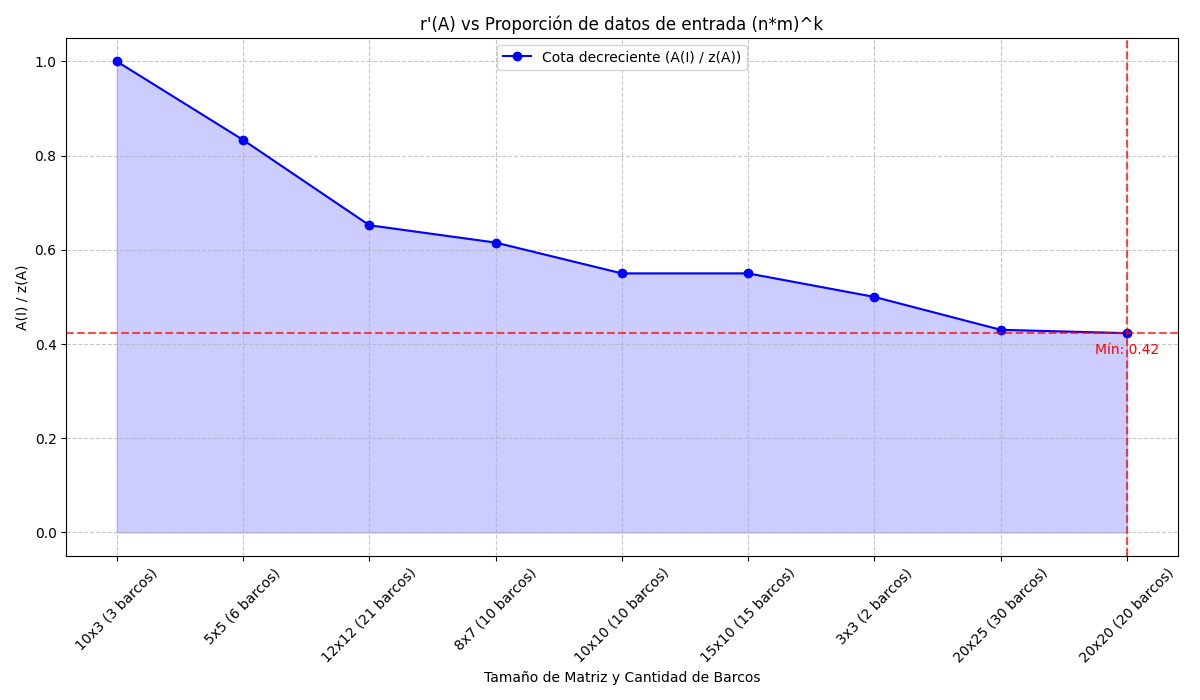
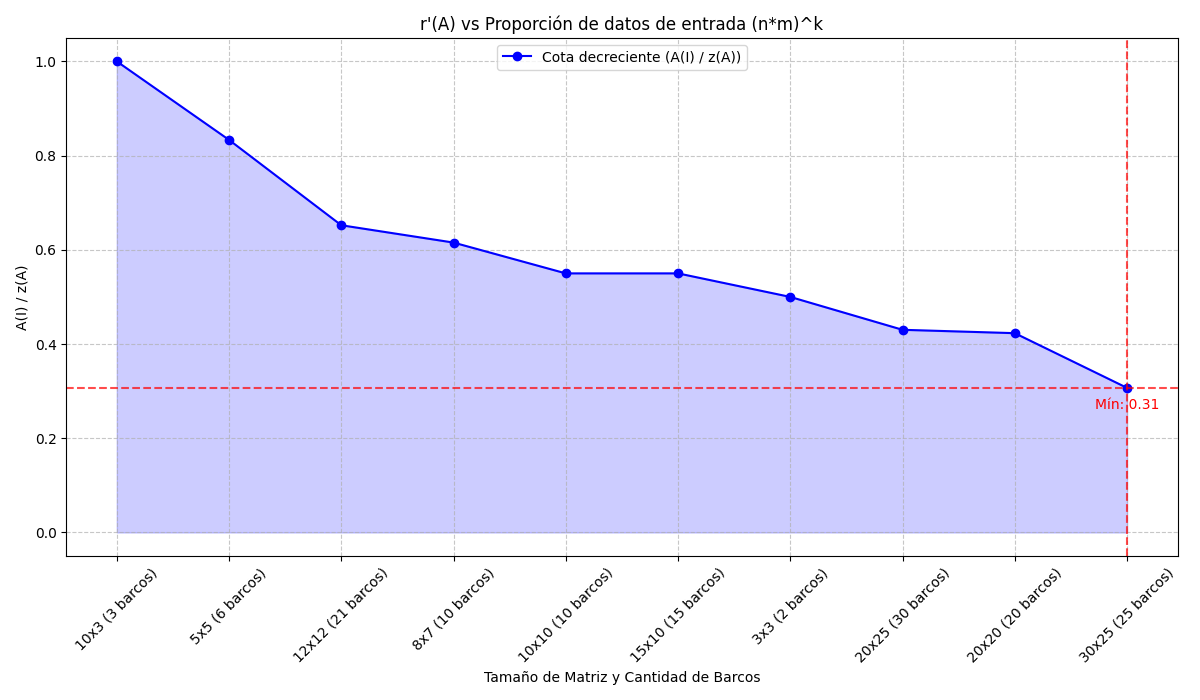
[UPDATE] Agregamos nuevos set de datos para los graficos de APROX

diff --git a/TP3/algoritmos/aprox_cota.py b/TP3/algoritmos/aprox_cota.py
@@ -1,21 +1,9 @@
-
-"""
-- correrlo con los ejemplos y guardarse los res de cada uno en un arreglo
-- armar otro arreglo con los resultados optimos
-- graficar resultado // optimo
-- eje x: ejemplo
-- eje y: resultado sobre optimo A(I) / z(I)
-"""
-
 import matplotlib.pyplot as plt
 from algoritmos.leer_archivos import *
 from algoritmos.aproximacion import *
 
-def modelo_cota(x, y):
-    return x/y
-
 def aprox_cota():
-    archivos = leer_archivos(CARPETA)
+    archivos = leer_todos_archivos(CARPETA)
     resultados = []
     for archivo in archivos:
         demandas_filas, demandas_columnas, barcos = leer_inputs('data/' + archivo)
@@ -35,7 +23,7 @@ def aprox_cota():
         for i in range(n):
             for j in range(m):
                 if tablero[i][j] != VACIO:
-                    cant+=1
+                    cant += 1
         demanda_subopt = cant*2 # Resultado suboptimo
         demanda_opt = demanda_cumplida_esperada # Resultado optimo
 

diff --git a/TP3/algoritmos/leer_archivos.py b/TP3/algoritmos/leer_archivos.py
@@ -79,6 +79,18 @@ def leer_archivos(carpeta):
     ]
     return archivos_validos
 
+
+def leer_todos_archivos(carpeta):
+    archivos = os.listdir(carpeta)
+    archivos_validos = [
+        archivo for archivo in archivos
+        if ":Zone.Identifier" not in archivo
+            and 'Resultados Esperados.txt' not in archivo
+            and 'Resultados Esperados Tablero.txt' not in archivo
+            and archivo.endswith('.txt')
+    ]
+    return archivos_validos
+
 def leer_resultados_validador():
     carpeta = 'data_validador'
     archivos = os.listdir(carpeta)

diff --git a/TP3/algoritmos/auxiliares.py b/TP3/algoritmos/auxiliares.py
@@ -57,3 +57,5 @@ def configurar_posiciones_barcos(posiciones):
         elif isinstance(pos, tuple):  # Posición única
             posiciones_resultantes.append([pos])
     return posiciones_resultantes
+
+
